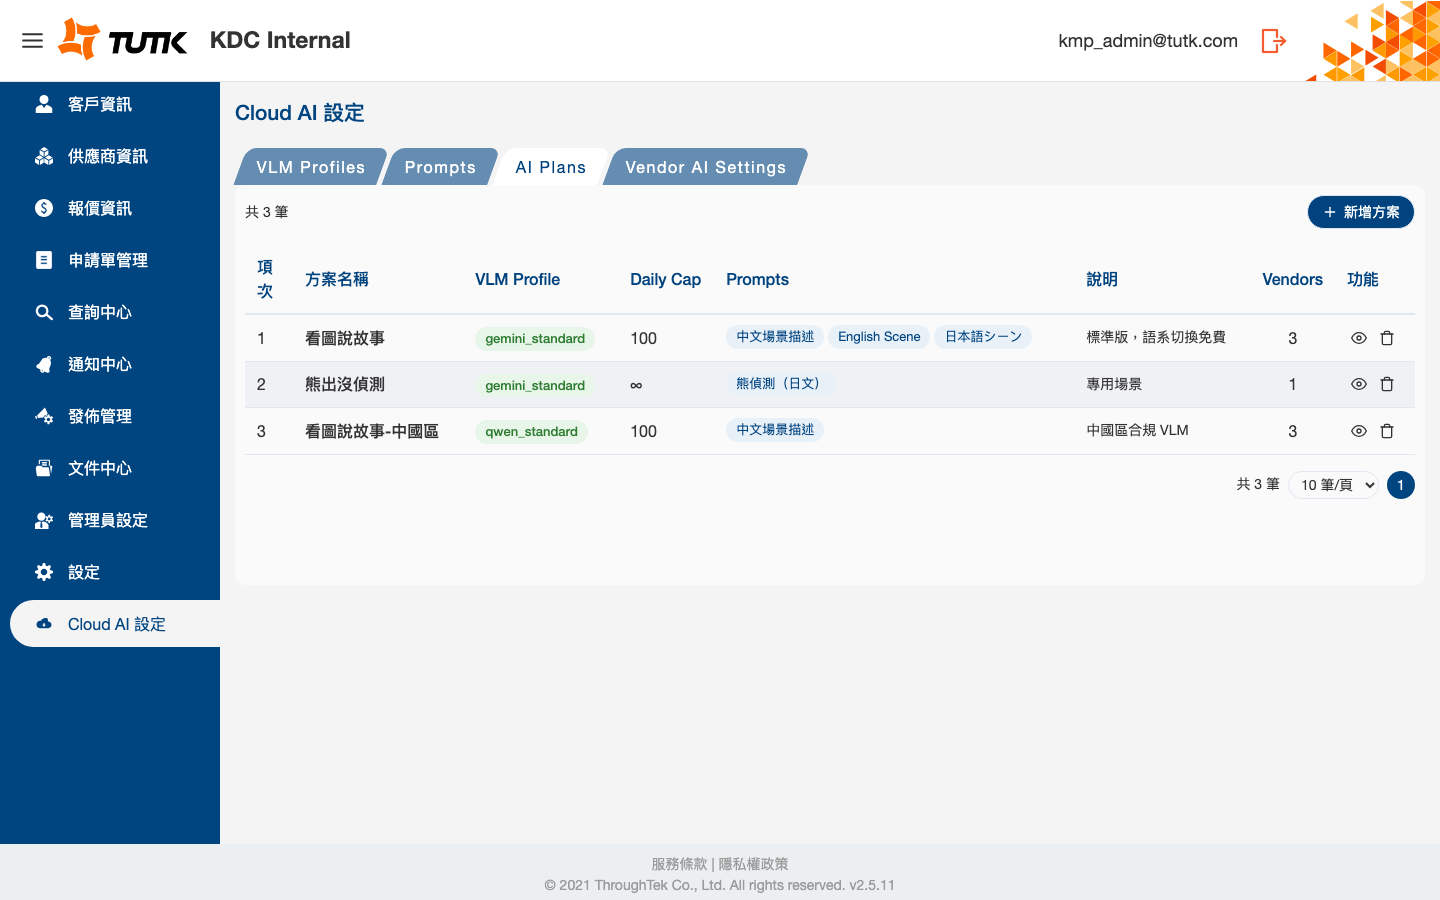
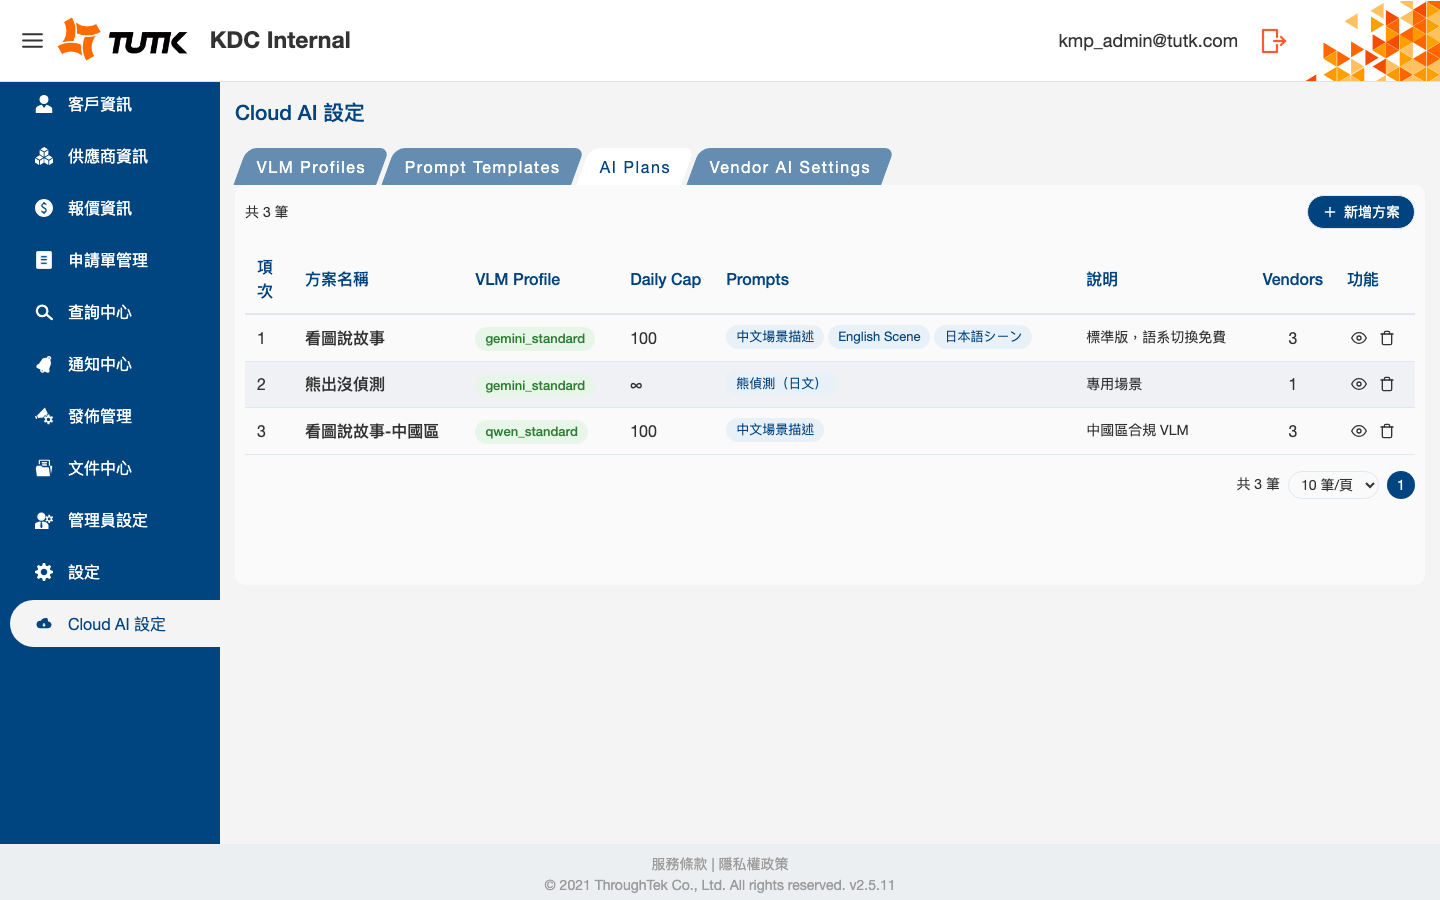
docs(design): batch design-assets refresh covering D-022 ~ D-030
Consolidate 9 spec decisions accumulated since the last Claude Design sync
into a single one-shot update prompt. Per Ronald's batched workflow, design
assets are refreshed only when explicitly requested rather than per-change.

- Refresh design/attachments/cloud-ai-plans.png and cloud-ai-vendor.png
- Add design/ITERATION-batch-2026-04-28.md — full Claude Design prompt
  covering Frame 05 (Prompt Templates), Frame 06 (AI Plans builder), and
  Frame 07 (Vendor zone) with all warning Modals and JSON error states
- Update DELIVERABLES.md frame annotations + point regen instructions to
  the new batch file (older per-version ITERATION files kept as history)

Changed region(s): [[0.3125, 0.1556, 0.625, 0.2178]]

diff --git a/design/ITERATION-batch-2026-04-28.md b/design/ITERATION-batch-2026-04-28.md
@@ -1,0 +1,188 @@
+# Claude Design — 批次更新 prompt（2026-04-28）
+
+自上次 Claude Design 同步以來，KDC Cloud AI 設定模組累積了 **D-022 ~ D-030（共 9 項決策）** 的變更，本檔案彙整為一次性的更新指令。執行後 Frame 05 / 06 / 07 將與目前 Prototype 同步；Frame 00 / 01 / 02 / 03 / 04 / 08 不需動。
+
+> 此檔取代之前的 `ITERATION-V1.5-AI-PLANS.md`、`ITERATION-V1.6-VENDOR-ZONE.md`、`ITERATION-V1.7-PROMPT-TEMPLATES.md`（保留為歷史記錄）。
+
+對應 SPEC：HedgeDoc noteId `s0-kbgpQRkavK4jzlfJ51g` v1.11（2026-04-28）
+
+---
+
+## 更新前準備
+
+1. 本機已執行 `npm run figma:frames`（attachments 已同步）
+2. 將以下三張 PNG 拖入 Claude Design 對話框附件：
+   - `design/attachments/cloud-ai-prompts.png`（Frame 05 新狀態）
+   - `design/attachments/cloud-ai-plans.png`（Frame 06 新狀態）
+   - `design/attachments/cloud-ai-vendor.png`（Frame 07 新狀態）
+3. 開啟 https://claude.ai/design/p/843d5a59-6270-4a78-988c-2174e26d9a54
+
+---
+
+## 送入對話框的 prompt（一次性，整段貼入）
+
+```
+請依以下變更整批更新 Frame 05 / 06 / 07，其他 frames（00/01/02/03/04/08）保持不變。
+範本 token：所有變更皆採用既有設計系統色票，請以 design tokens 為準。
+
+═══════════════════════════════════════════
+Frame 05 — Cloud AI 設定 — Prompt Templates
+═══════════════════════════════════════════
+
+(1) Tab 標題改名：「Prompts」→「Prompt Templates」
+    - 第二個 tab 文字改名；右上角「+ 新增 Prompt」按鈕保持原文（單筆物件仍稱 Prompt）
+
+(2) 新增「名稱重複」警告 Modal（以 callout / overlay 範例呈現）
+    - 觸發：儲存時偵測 name 與其他 Prompt Template 重複
+    - 標題：「名稱重複」
+    - 訊息：「已存在名稱為『中文場景描述』的 Prompt Template，請改用其他名稱。」
+    - 單一按鈕：「我知道了」（warning variant、無 cancel）
+
+(3) 新增「JSON 格式錯誤」狀態（以 callout / overlay 範例呈現）
+    - 編輯中失焦狀態：textarea 邊框 #d32f2f，下方 12px 紅字
+      「JSON 格式錯誤：Expected double-quoted property name in JSON at position 23 (line 1 column 24)」
+    - 儲存攔截 Modal：標題「JSON 格式錯誤」、訊息「Prompt 內容必須是合法的 JSON。請依下方紅字提示修正後再儲存。」、單鍵「我知道了」
+
+═══════════════════════════════════════════
+Frame 06 — Cloud AI 設定 — AI Plans
+═══════════════════════════════════════════
+
+【表格層級】
+(4) 移除「UDID」欄位
+    新欄位順序：項次 / 方案名稱 / VLM Profile / Daily Cap / Prompts / 說明 / Vendors / 功能
+
+(5) 「功能」欄第一顆 icon 從鉛筆改為眼睛 icon（檢視）
+    保留刪除（垃圾桶）icon
+
+【檢視 Modal — 取代原編輯 Modal】
+(6) 開啟條件：點眼睛 icon
+    內容：方案名稱 / VLM Profile / Daily Cap / 說明 / Prompts 清單
+    特性：
+    - 唯讀（無編輯入口）
+    - Prompts 清單為可展開行：點箭頭顯示該 prompt 的 promptBody（JSON 全文，monospace、灰底 pre）
+    - 預設 prompt 行左側 4px 綠直條（#2e7d32）+ 綠色「預設」chip（#e8f5e9 底 / #2e7d32 字）
+    - 非預設行顯示「源自：xxx」chip（#e8f0f8 底 / #004480 字）；若曾被改過 chip 後綴加紅字「・已修改」
+    - 自建 prompt 顯示「自建」chip（#fff3e0 底 / #e65100 字）
+    - 行尾顯示 snapshotAt 日期
+    底部按鈕：只有「關閉」
+
+【建立方案 Modal — 大改造】
+(7) 全新「Prompts Builder」取代原本 checkbox + 上下移按鈕的設計
+    架構：未排序卡片清單，每張卡片是「方案私有 PromptSnapshot」副本（建立時從模板深拷貝或自建）
+    
+    Builder header：
+    - 左：「Prompts *（從模板加入或自建，皆為此方案私有副本；恰一個為預設執行）」
+    - 右：兩顆白底藍邊小按鈕「+ 從模板加入」、「+ 自建 Prompt」
+
+    每張卡片 header（左到右）：
+    - 預設 radio：「○ 預設」label（同卡內勾選後 radio 填色）
+    - 展開/收合箭頭（>>）
+    - name input（可編輯，flex-1）
+    - 預設 chip（僅當此卡為預設時顯示）：綠色「預設」
+    - 來源 chip：「源自：xxx」（藍色，或加「・已修改」紅字後綴）/「自建」（橘色）
+    - 移除 ×（IconClose）
+
+    每張卡片展開後：
+    - 「Prompt 內容（JSON）」label
+    - textarea（monospace 12px、6 rows、resize-y）
+    - 編輯失焦時若 JSON 無效：邊框紅、下方紅字錯誤訊息
+    
+    預設卡片視覺：左側 4px 綠直條（#2e7d32）+ header 綠 chip
+    
+    Builder footer 提示文字：「已加入 N 個 Prompt（綠色直條為預設）」
+
+(8) 新增「從模板加入」picker Modal（以 callout / overlay 呈現）
+    - 標題「從模板加入 Prompt」
+    - 上方提示：「模板內容會被深拷貝為此方案的私有副本，加入後仍可編輯，且不會回寫模板。」
+    - checkbox 列表（中文場景描述 / English Scene / 日本語シーン / 熊偵測（日文））
+    - 底部「取消」/「加入 (N)」按鈕，未選擇時 disabled
+
+【五個警告 Modal（以 callout / overlay 呈現）】
+(9) 「無法刪除」（vendor-in-use guard，列表上點刪除）
+    標題「無法刪除」、訊息「『熊出沒偵測』目前有 1 個 Vendor 使用中，請先到『Vendor AI 設定』將此方案移除後再刪除。」、單鍵「我知道了」
+
+(10) 「無法刪除預設 Prompt」（builder 內點預設卡片 ×）
+    標題「無法刪除預設 Prompt」、訊息「預設 Prompt 不可直接刪除，請先將其他 Prompt 設為預設後再刪除。」、單鍵「我知道了」
+
+(11) 「Prompt 名稱重複」（builder 內方案內 name 衝突）
+    標題「Prompt 名稱重複」、訊息「方案內已存在名稱為『中文場景描述』的 Prompt，請改用其他名稱。」、單鍵「我知道了」
+
+(12) 「JSON 格式錯誤」（builder 內某卡片 body 無效）
+    標題「JSON 格式錯誤」、訊息「以下 Prompt 的 JSON 格式無效，請修正後再儲存：中文場景描述、自建 Prompt」、單鍵「我知道了」
+
+(13) 同 Frame 05 第 (3) 點 — JSON 錯誤的 textarea inline 紅框 + 紅字（適用於 builder 內每張卡片）
+
+═══════════════════════════════════════════
+Frame 07 — Cloud AI 設定 — Vendor AI Settings
+═══════════════════════════════════════════
+
+(14) 共用區（Shared Zone）保持不變
+
+(15) Vendor 專屬區整段重構為 KDC「管理員設定 → 角色管理」同款 layout
+     `grid-cols-[1fr_280px]` 左右分欄
+
+【左側 Vendor 表格】
+- 欄位順序：項次 / Vendor 名稱 / 專屬方案
+- 「Vendor 名稱」欄兩行：主名稱（font-medium）+ VID 副標（灰色 12px）
+- 「專屬方案」欄為**黑色 chip 清單**（對齊 KDC 角色 → 帳號 chip）：
+  * 黑底 #2b2b2b、白字、圓角 14px、padding 10px/4px
+  * 右側帶圓形 × 按鈕（#4a4a4a 底、白字、hover #666）
+- 未綁定的 vendor 列顯示 placeholder「拖曳方案到此處」（13px 灰字）
+- **沒有「功能」欄位**
+- 表格底部分頁器（共 X 筆 / 10 筆/頁 / 頁碼）
+
+【右側可選方案面板（寬 280px、sticky）】
+- 最上方標題「**專屬方案**」置中（深色，表格標頭字級）
+- 下方單一大框（白底、1px border、圓角 5px）
+- 框內每列只顯示「方案名稱」純文字（**不顯示 VLM / Daily Cap 副標**）
+- 列間細線分隔
+- 內容 = 所有 AI Plans 扣掉 globalPlans
+- 每列可拖曳（cursor: grab/grabbing）
+
+【操作說明（標題下方）】
+「從右側『可選的專屬方案』拖曳方案到左側對應 Vendor 列，或點 chip × 移除。」
+
+【drop zone 視覺（可挑一列呈現拖曳中狀態）】
+背景 #fff3e0 + 2px dashed #e65100 外框
+
+═══════════════════════════════════════════
+參考資源
+═══════════════════════════════════════════
+
+附件已上傳：
+- design/attachments/cloud-ai-prompts.png（Frame 05 新狀態）
+- design/attachments/cloud-ai-plans.png（Frame 06 新狀態，Builder 版）
+- design/attachments/cloud-ai-vendor.png（Frame 07 新狀態，KDC role-management 風）
+- 完整 SPEC：HedgeDoc s0-kbgpQRkavK4jzlfJ51g（v1.11）
+- Live Prototype：https://kdc-cloud-ai-config.zeabur.app/cloud-ai
+
+請整批更新 Frame 05 / 06 / 07；若任一變更影響其他 frame 請優先還原。
+```
+
+---
+
+## 期望產出
+
+- Frame 05 / 06 / 07 與 Prototype 像素級接近，並包含本批所有 Modal / 錯誤態 callouts
+- Frame 00 / 01 / 02 / 03 / 04 / 08 不變
+
+## 完成後
+
+1. 在 Claude Design 內 File → Export PDF，覆蓋 `design/deliverables/KDC internal.pdf`
+2. `git add design/deliverables/ && git commit && git push`
+
+---
+
+## 對應決策一覽（給好奇 Claude Design 的人對照用）
+
+| 決策 | SPEC 版本 | 變更 |
+|------|----------|------|
+| D-022 | v1.5 | Prompts → Templates 模板語意；AI Plan 建立時深拷貝 |
+| D-023 | v1.5 | AI Plan 移除 UDID + vendor-in-use guard |
+| D-024 | v1.5 | AI Plan view-only + 眼睛 icon + 檢視 Modal |
+| D-025 | v1.6 | Vendor 專屬區改 KDC 管理員樣式 + drag-drop |
+| D-026 | v1.7 | Tab 改名 Prompt Templates + 名稱唯一警告 |
+| D-027 | v1.8 | AI Plan builder（picker → builder + 自建 + 來源 chip） |
+| D-028 | v1.9 | AI Plan prompts 預設機制 + 綠直條 + chip |
+| D-029 | v1.10 | 預設 prompt 不可直接刪除（取代自動接管） |
+| D-030 | v1.11 | promptBody JSON 格式驗證（兩處皆套用） |

diff --git a/design/DELIVERABLES.md b/design/DELIVERABLES.md
@@ -22,9 +22,9 @@ Handoff bundle for the RD team. Produced via [Claude Design](https://claude.ai/d
 | 02 | 申請單管理 — 新增申請單 | EXISTING |
 | 03 | 申請單管理 — 新增 VSaaS 使用申請單 | EXISTING + NEW CLOUD AI ROW |
 | 04 | Cloud AI 設定 — VLM Profiles | NEW |
-| 05 | Cloud AI 設定 — Prompt Templates | NEW — **v1.7 重生成**：tab 改名「Prompt Templates」+ 名稱重複警告 Modal |
-| 06 | Cloud AI 設定 — AI Plans | NEW — **v1.5 重生成**：移除 UDID 欄、編輯 icon 改眼睛、刪除守衛改 Vendor-in-use、Prompts 為快照 |
-| 07 | Cloud AI 設定 — Vendor AI Settings | NEW — **v1.6 重生成**：Vendor 專屬區改 KDC 管理員風格（左側 vendor 表格+黑 chip，右側極簡專屬方案面板，drag-drop 新增） |
+| 05 | Cloud AI 設定 — Prompt Templates | NEW — **批次更新 2026-04-28**：tab 改名 Prompt Templates、名稱重複警告、JSON 格式錯誤態 |
+| 06 | Cloud AI 設定 — AI Plans | NEW — **批次更新 2026-04-28**：移除 UDID、view-only 檢視 Modal（含預設 chip + 來源 chip + JSON 展開）、Prompts Builder（從模板/自建、name 唯一、預設 radio + 不可刪除、JSON 驗證） |
+| 07 | Cloud AI 設定 — Vendor AI Settings | NEW — **批次更新 2026-04-28**：Vendor 專屬區改 KDC 管理員風格（黑 chip table + 極簡側欄 + drag-drop） |
 | 08 | Design System | reference |
 
 All frames are **editable React components** (not image underlays). The shell (header / sidebar / footer) is a shared `<KdcShell>` component — edits propagate to every frame.
@@ -41,15 +41,21 @@ All frames are **editable React components** (not image underlays). The shell (h
 >
 > Cloud AI 相關的新功能在橘色 **NEW** chip 標示處；既有 KDC shell 在藍色 **EXISTING** chip 標示處。VSaaS 使用申請單頁面的 "Cloud AI 加值服務" 那一列是唯一既有頁面裡新增的東西。
 
-## Regenerating the deliverable
+## Regenerating the deliverable (batched mode)
 
-If code/tokens change and we need to regenerate:
+Per Ronald's preference, design assets are refreshed in batches — accumulate prototype changes + SPEC bumps, then run one consolidated update when explicitly requested.
 
+**Latest batch**: [`design/ITERATION-batch-2026-04-28.md`](./ITERATION-batch-2026-04-28.md) — covers D-022 ~ D-030 (SPEC v1.5 ~ v1.11). Open it for the one-shot Claude Design prompt + which PNGs to attach.
+
+Mechanics:
 ```bash
 npm run figma:frames                                # refresh 16 PNG screenshots at 1440×900 and 1920×1080
+# Sync the modified frames into design/attachments/
 # then open https://claude.ai/design/p/843d5a59-6270-4a78-988c-2174e26d9a54
-# and send: "src/ 和 design/attachments/ 更新了，請重新生成全部 10 個 artboards"
+# attach the changed PNGs and paste the prompt from the latest ITERATION-batch-*.md
 ```
+
+Older per-version files (`ITERATION-V1.5-AI-PLANS.md`, `ITERATION-V1.6-VENDOR-ZONE.md`, `ITERATION-V1.7-PROMPT-TEMPLATES.md`) are kept as historical record but **superseded** by the current batch file.
 
 ## Lessons (fed back into `replicate-website-visual` skill)
 
